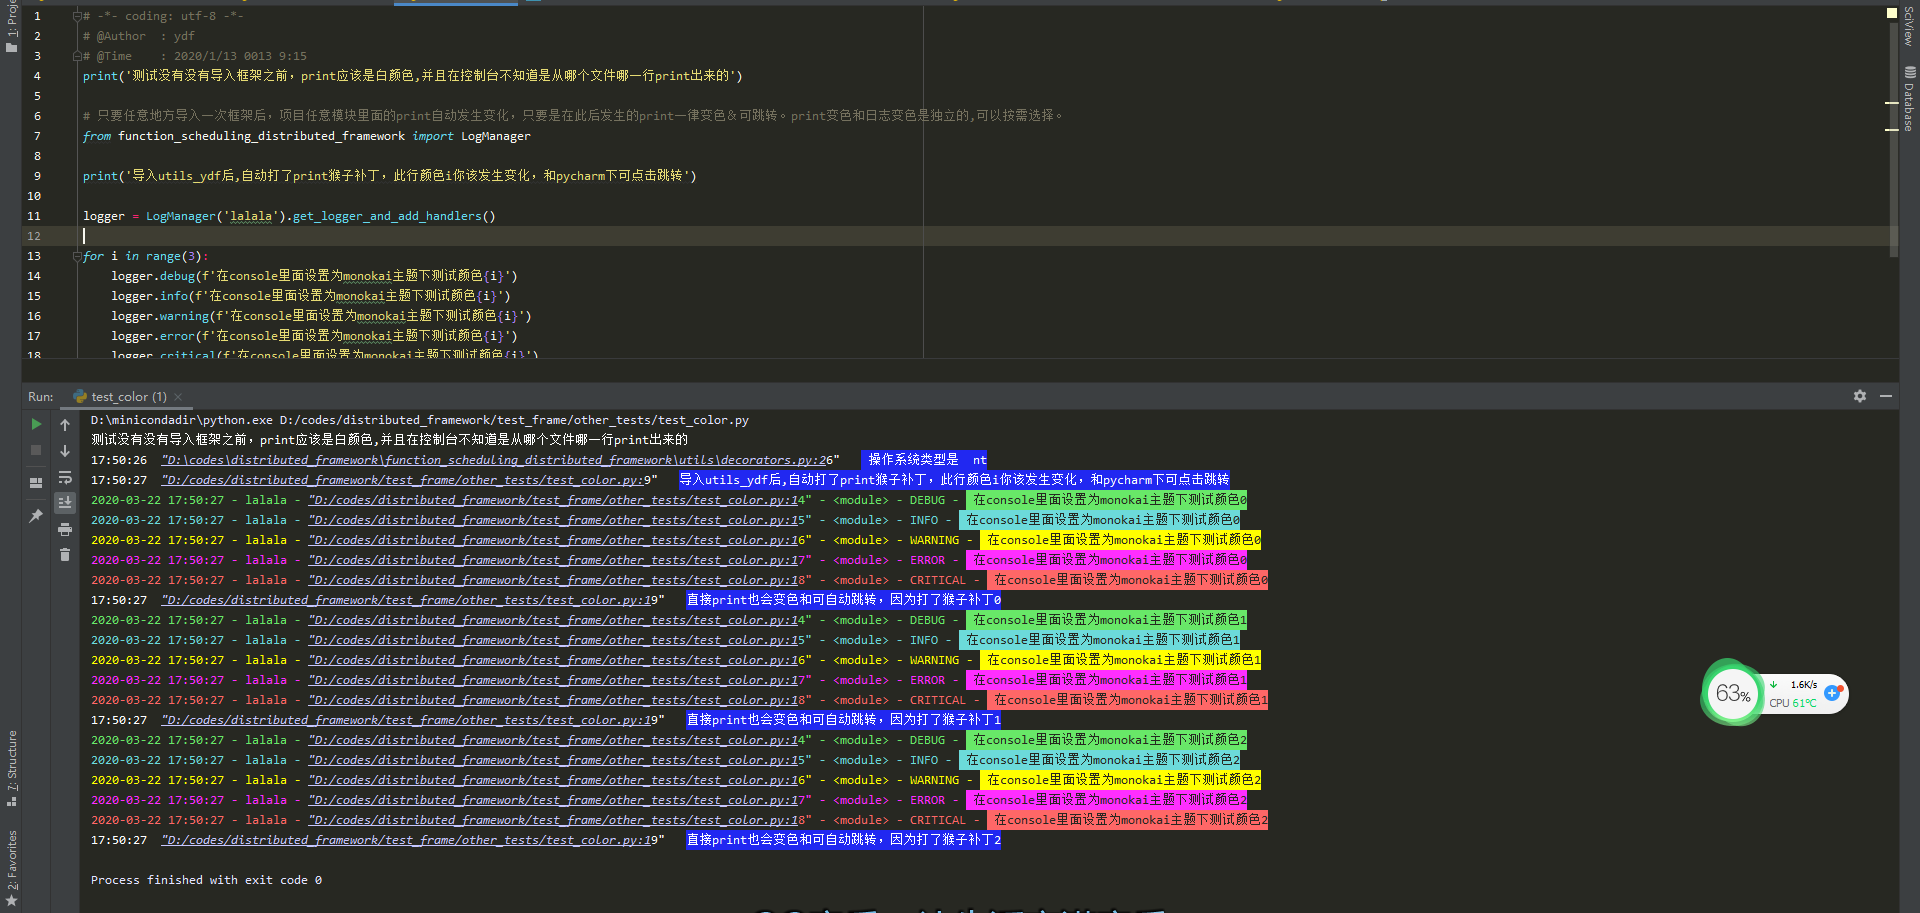
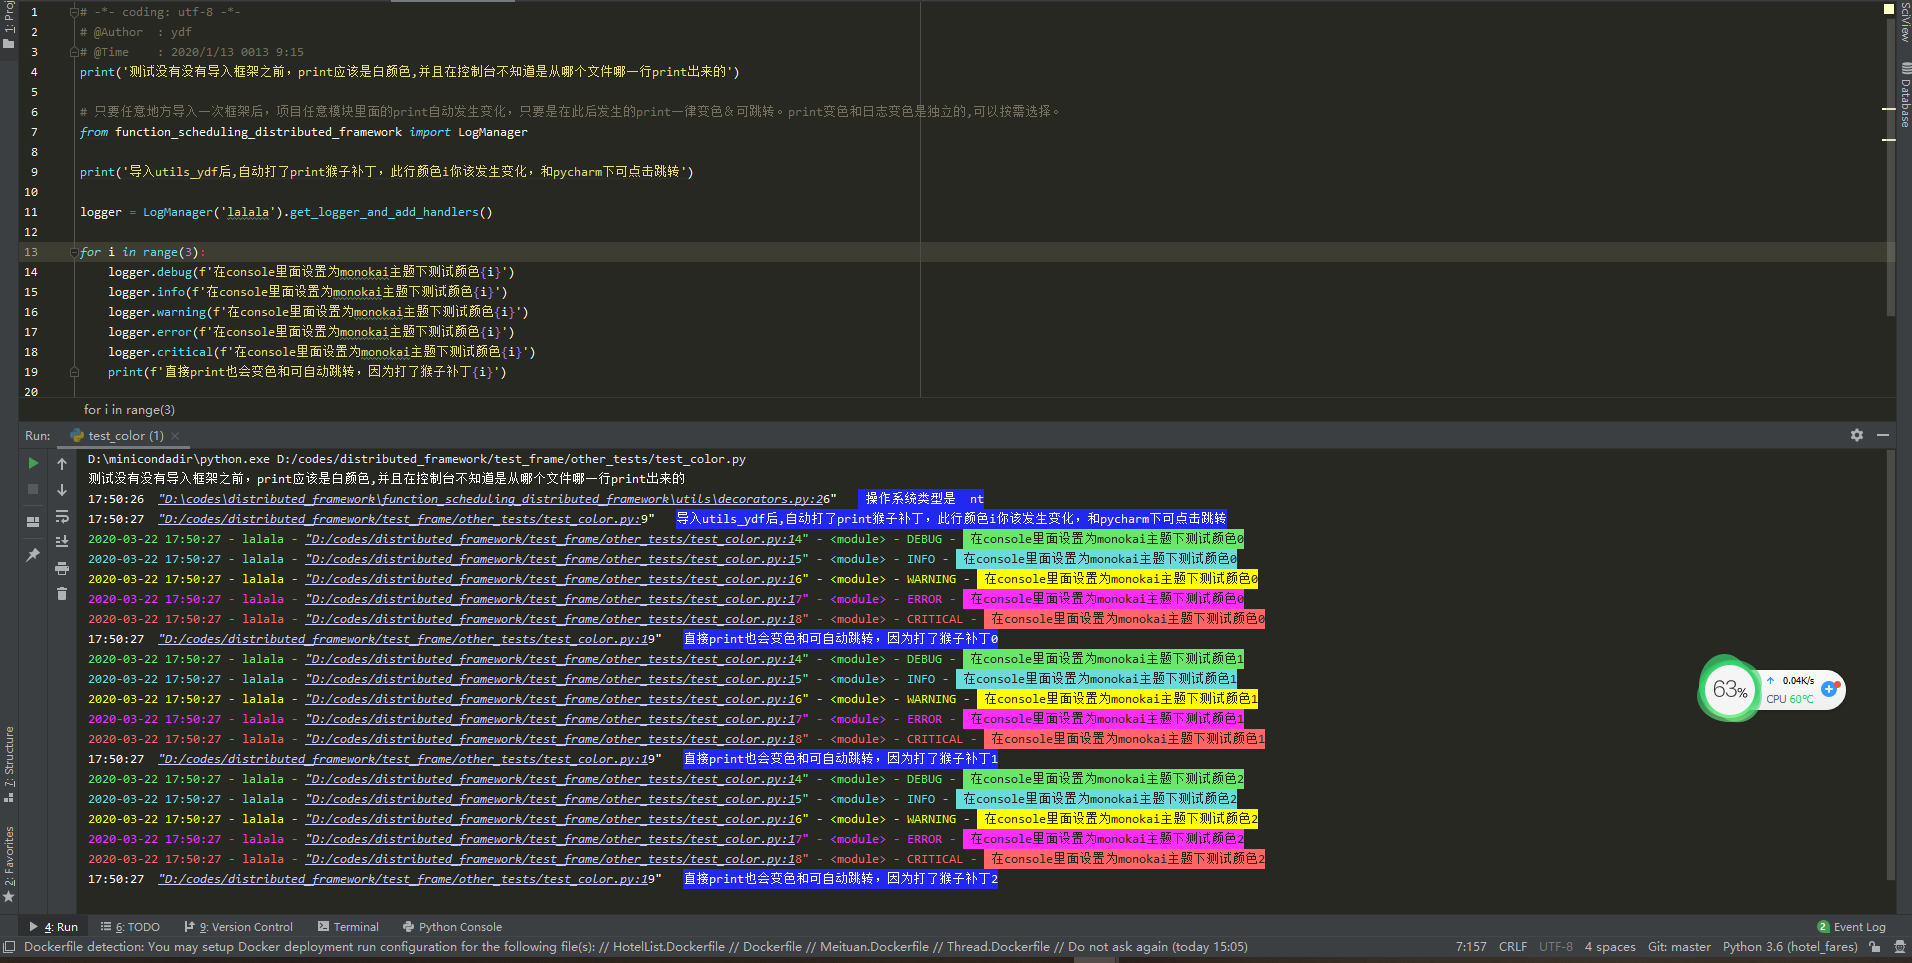
no message

Changed region(s): [[0.0, 0.0, 1.0, 1.0]]

diff --git a/README.md b/README.md
@@ -760,7 +760,7 @@ start_consuming_message('test_beggar_redis_consumer_queue', consume_function=add
 
 ##### 日志和print一起演示
 
-![Image text](https://i.niupic.com/images/2020/03/22/74yL.png)
+![Image text](https://i.niupic.com/images/2020/03/22/74yM.png)
 
 
 ##### 6.7.3 使print自动变化的最重要意义是：
